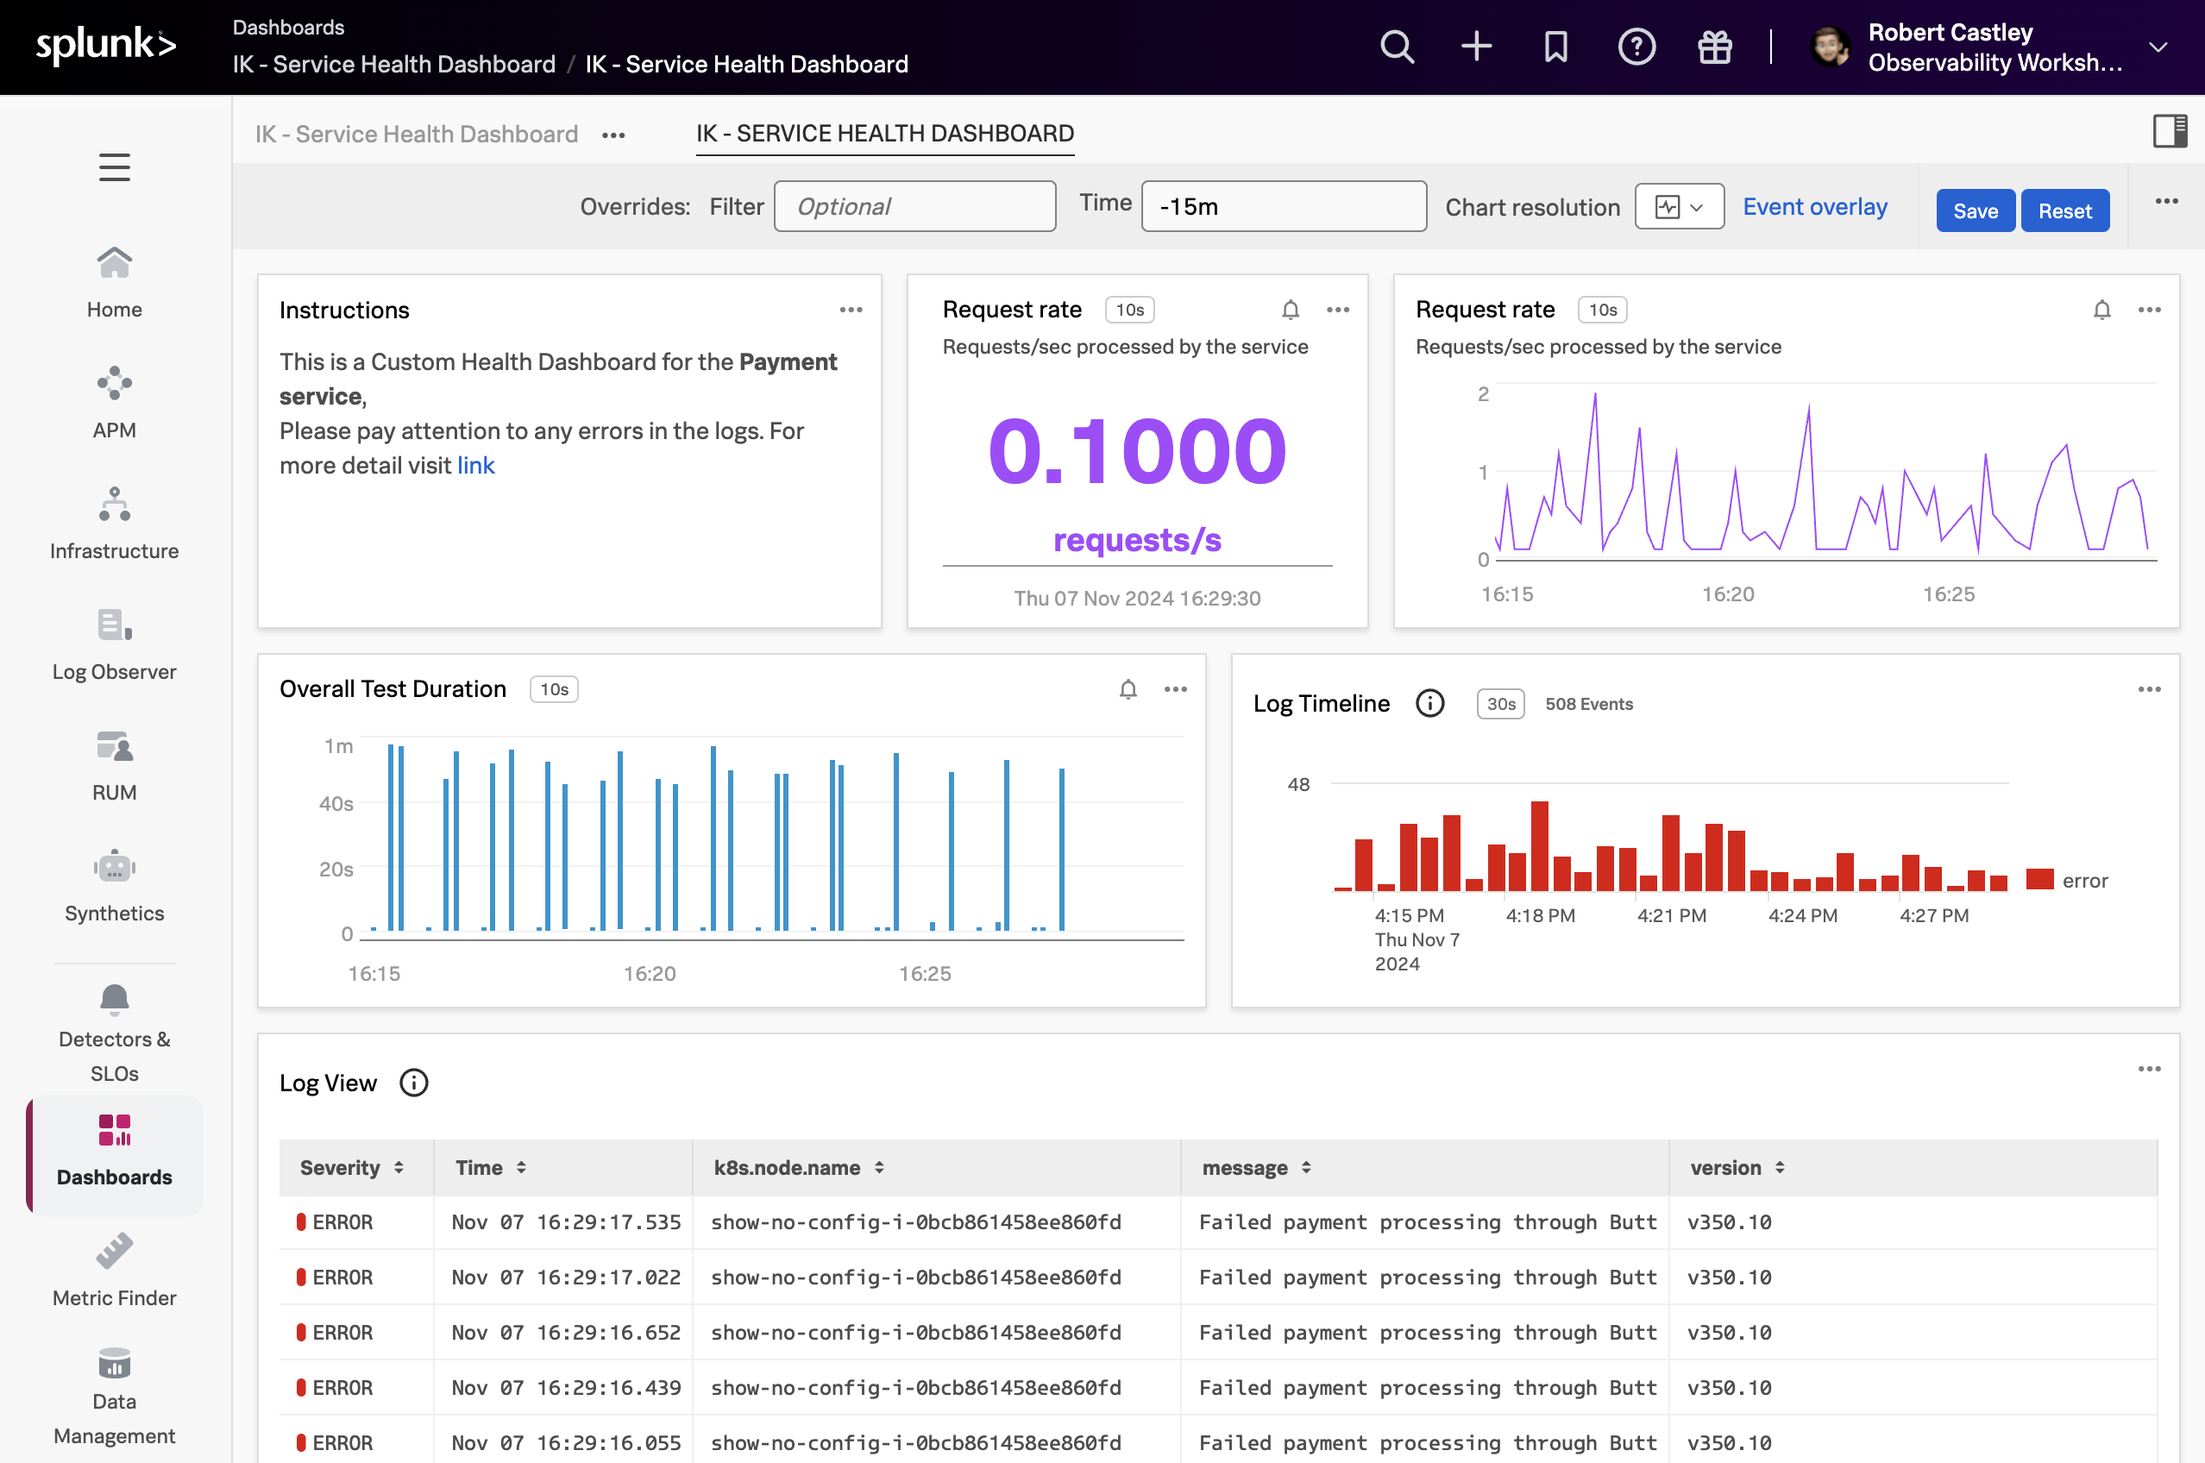
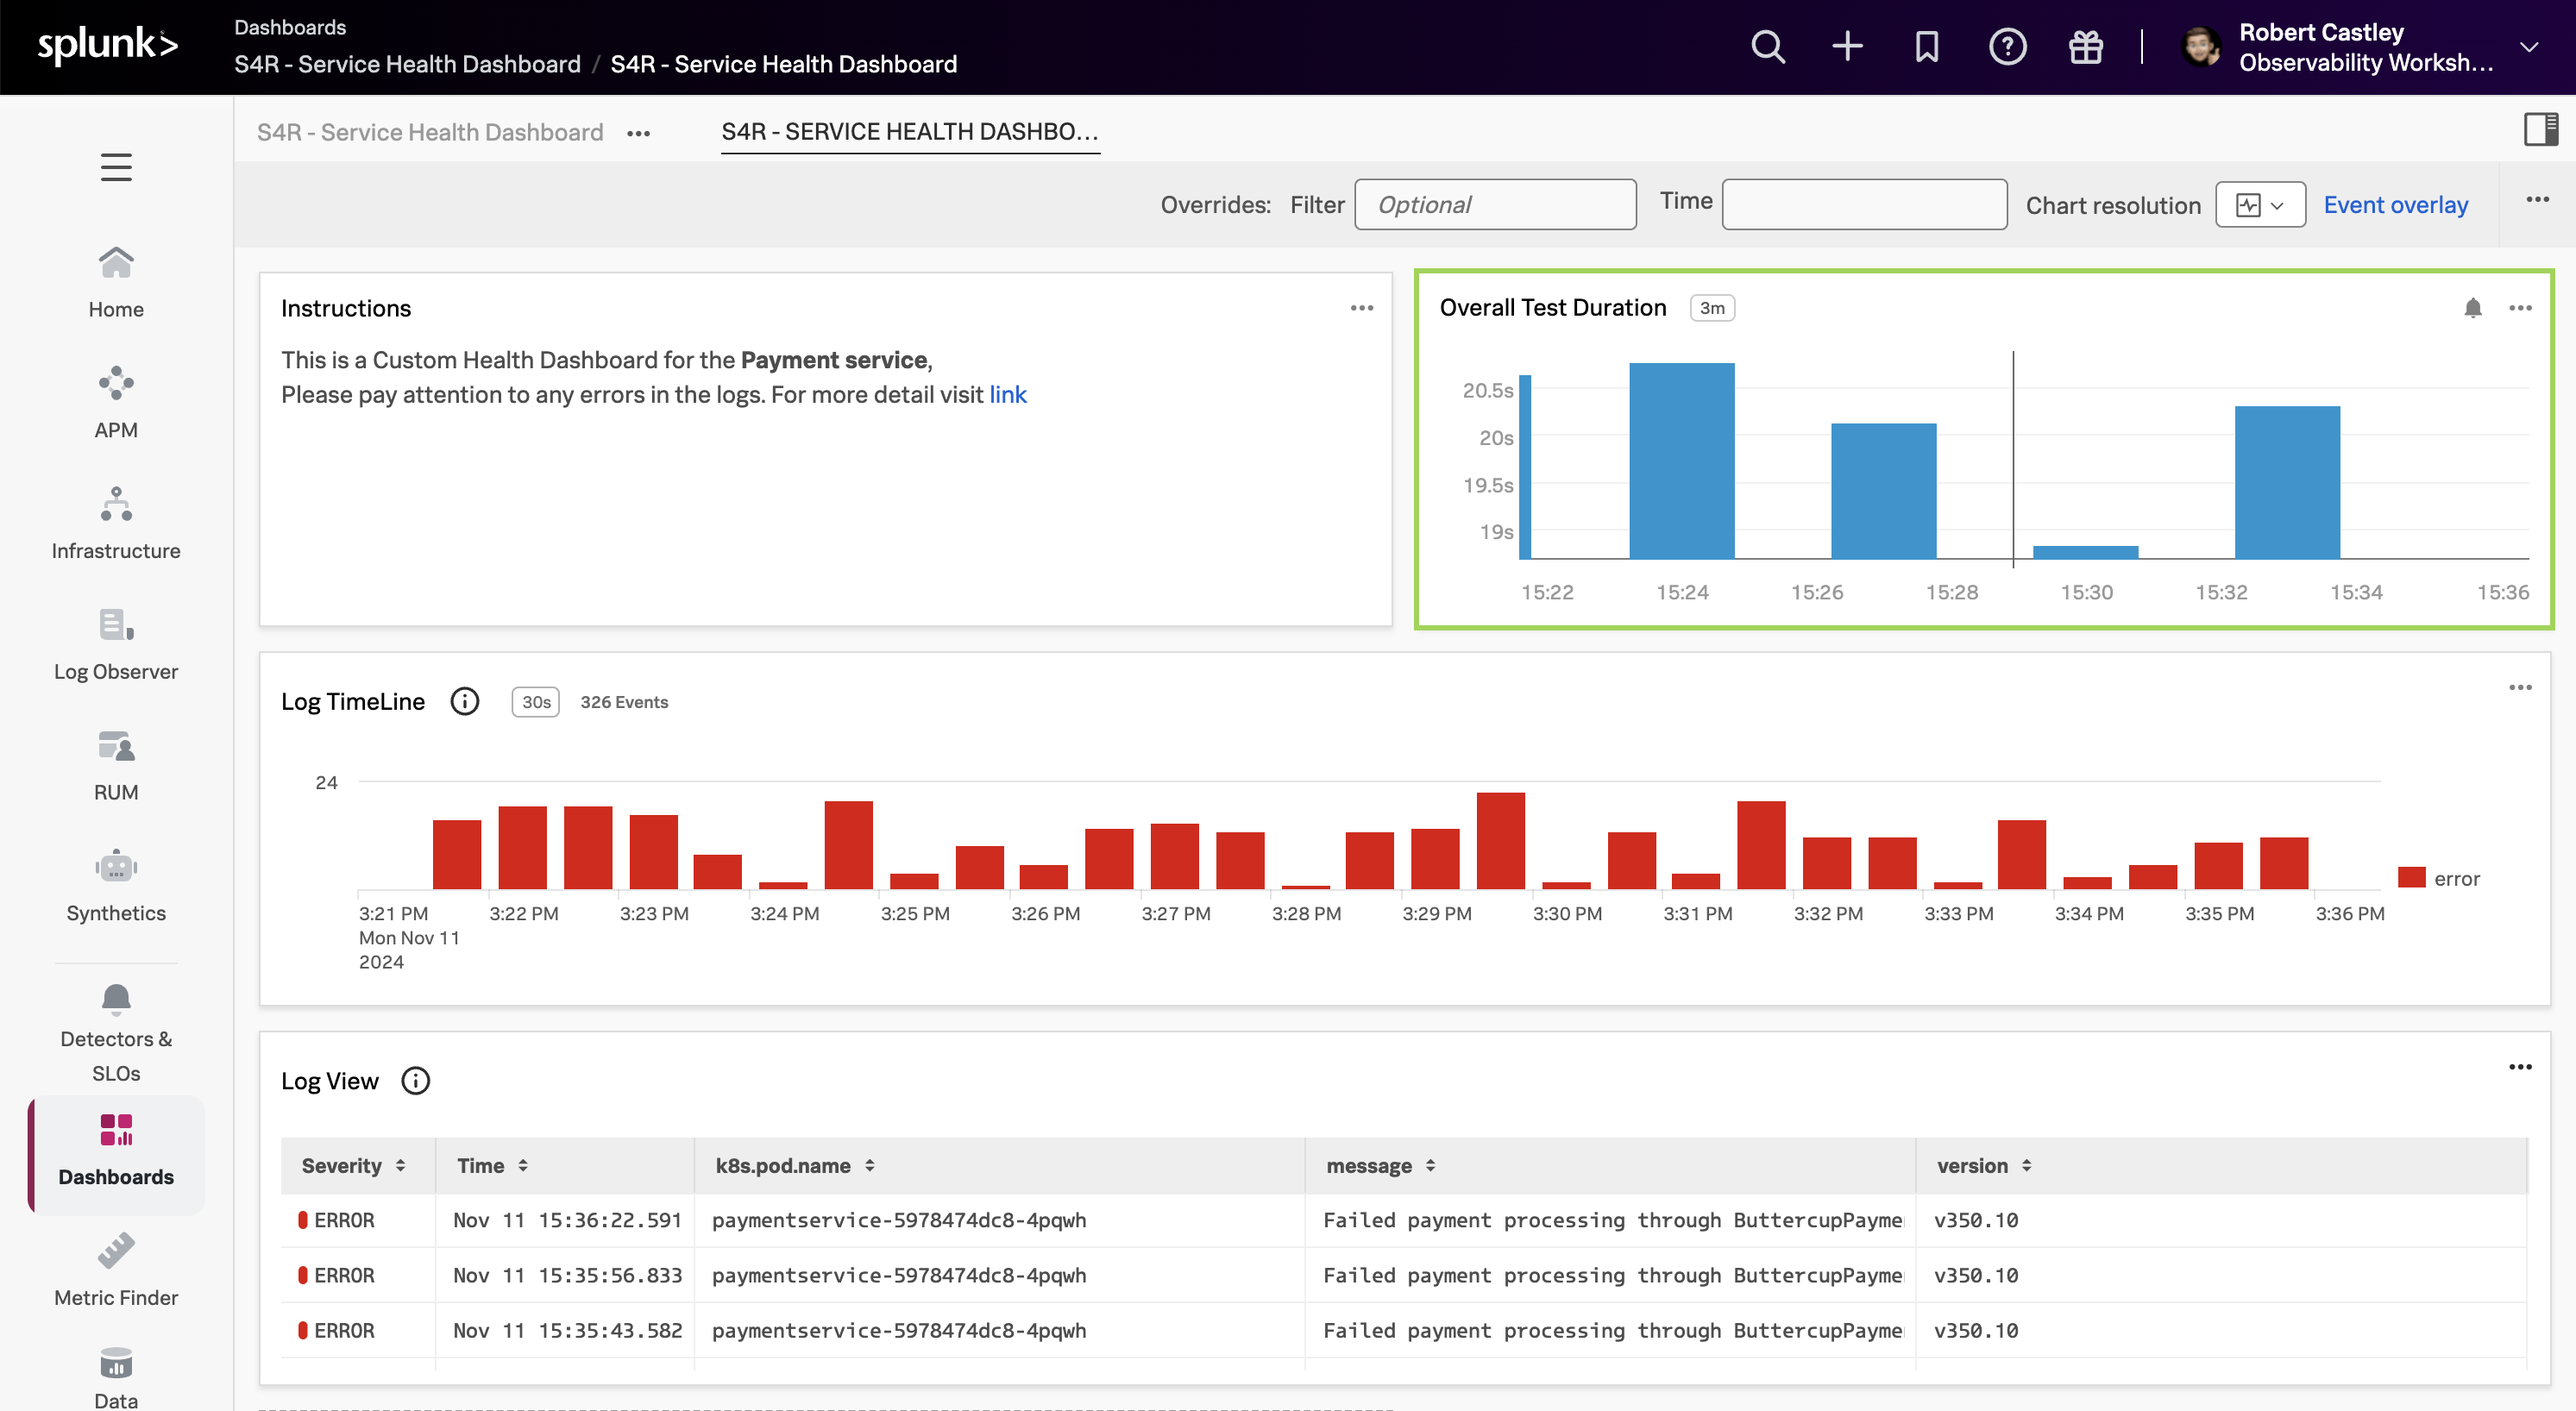
Hide custom charts as using service centric views

diff --git a/content/en/s4r/9-custom-dashboard/2-add-chart.md b/content/en/s4r/9-custom-dashboard/2-add-chart.md
@@ -2,6 +2,7 @@
 title: Adding Copied Charts
 linkTitle: 2. Adding Copied Charts
 weight: 2
+hidden: true
 ---
 
 In this section, we are going to use the **Copy and Paste** functionality to extend our dashboard. Remember we copied some charts during the APM Service Dashboard section, we will now add those charts to our dashboard.

diff --git a/content/en/s4r/9-custom-dashboard/3-custom-chart.md b/content/en/s4r/9-custom-dashboard/3-custom-chart.md
@@ -1,6 +1,6 @@
 ---
 title: Adding a Custom Chart
-linkTitle: 3. Adding a Custom Chart
+linkTitle: 2. Adding a Custom Chart
 weight: 3
 ---
 
